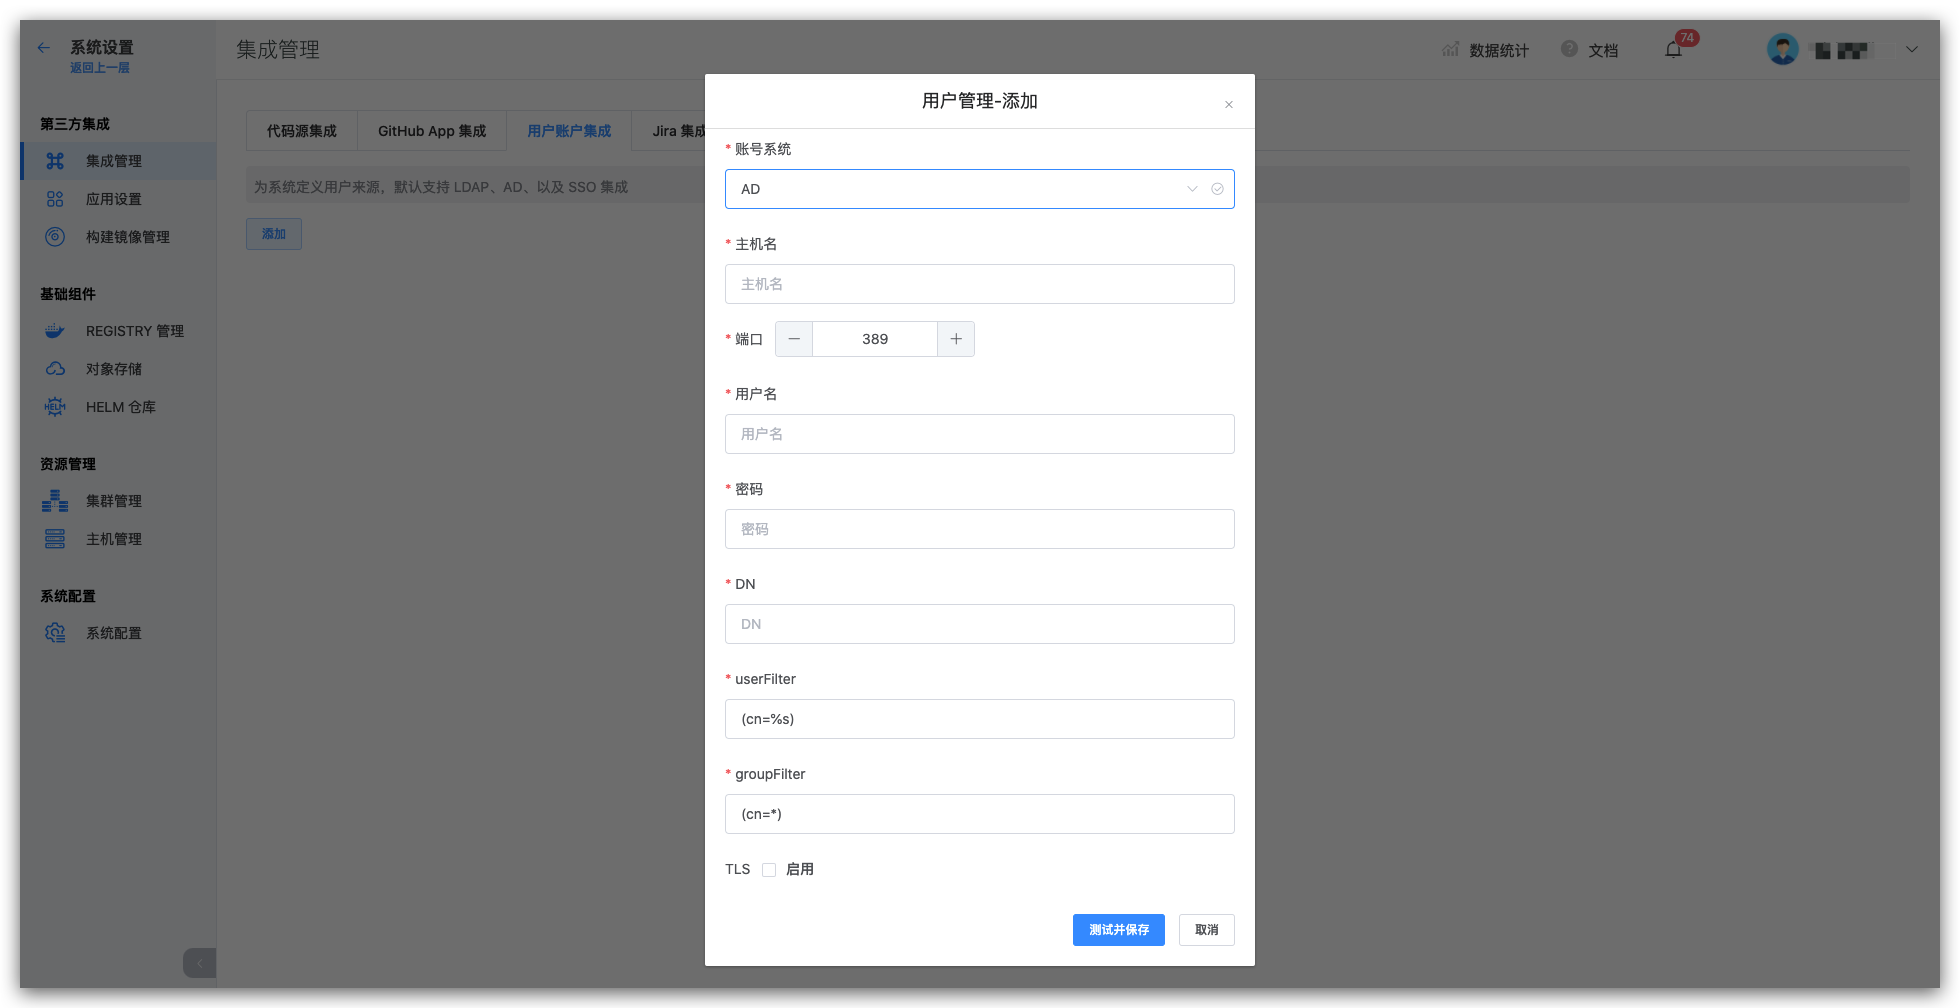
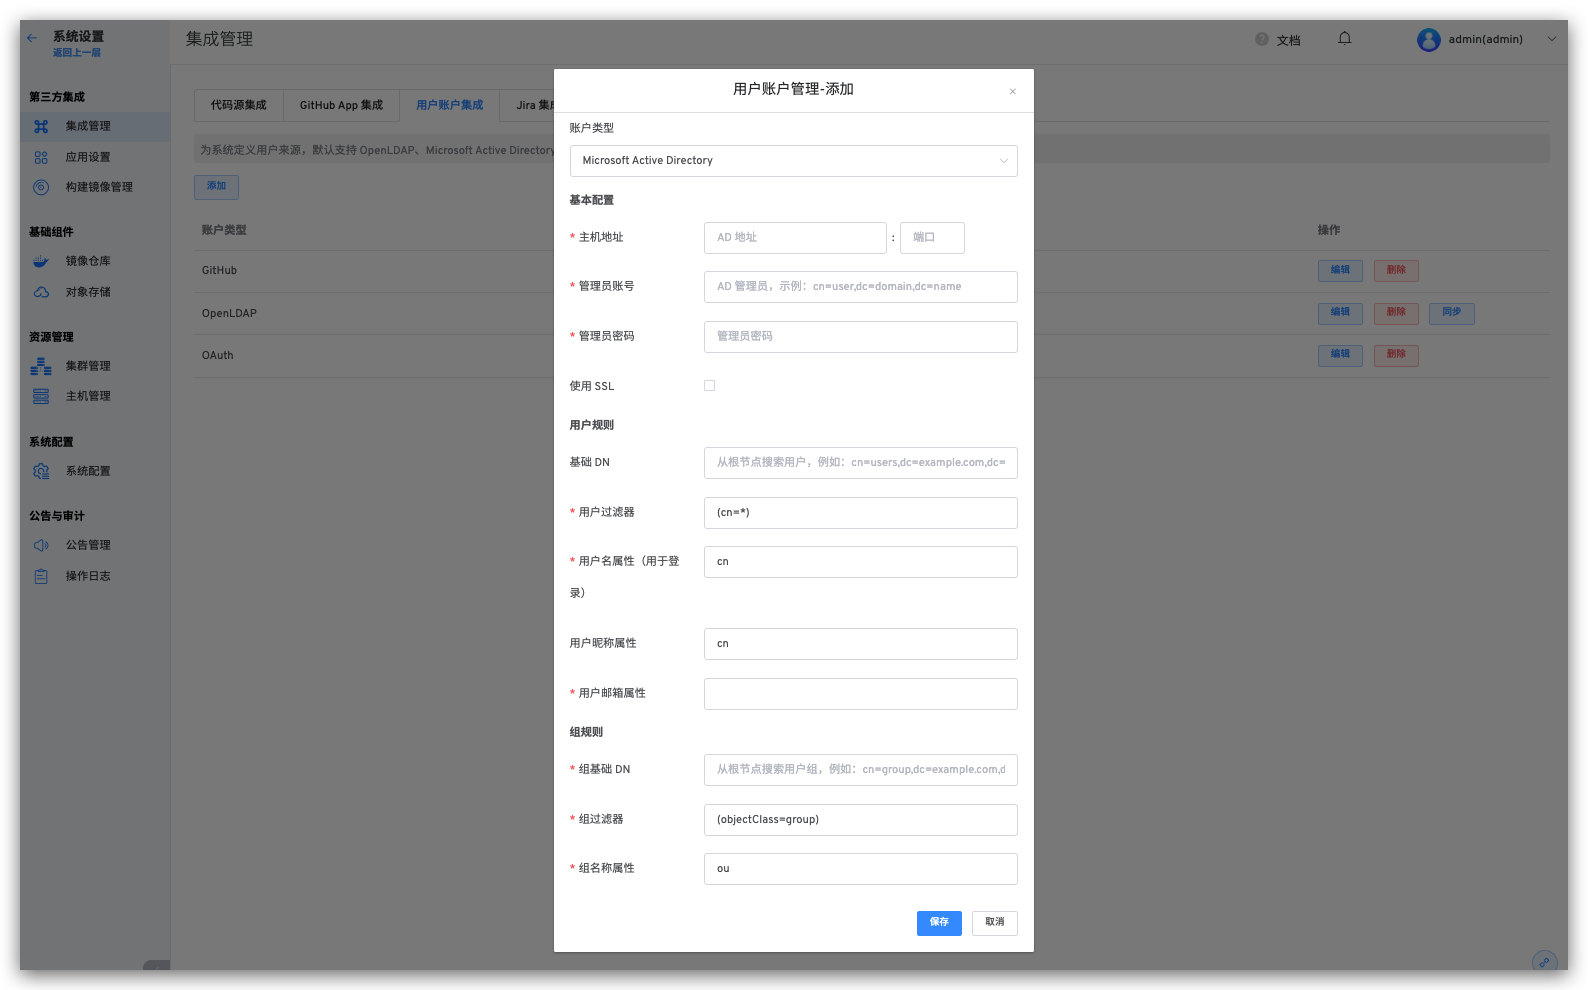
update user account doc

diff --git a/zh_cn/09.系统设置/02.account.md b/zh_cn/09.系统设置/02.account.md
@@ -16,37 +16,82 @@ LDAP（Lightweight Directory Access Protocol - 轻量目录访问协议）是一
 - Microsoft Active Directory
 - OpenLDAP
 
-### 在 Zadig 中集成 LDAP 目录
-
 ![ad](./_images/user_account_ad.png)
 
-- 管理员依次进入 `系统设置` -> `集成管理` -> `用户账户集成`，进入用户集成页面。
-- 点击添加按钮
-- 添加一个目录类型，选择以下类型：
+1. 管理员依次进入 `系统设置` -> `集成管理` -> `用户账户集成`，进入用户集成页面。
+2. 点击添加按钮，选择一个账户类型：
     - Microsoft Active Directory
     - OpenLDAP
-- 根据参数配置，输入需要配置的参数
-- 保存设置
+3. 根据参数配置，输入需要配置的参数
+4. 保存设置
 
-参数配置：
-| 参数名             | 描述                                                                                                                                                                                                                                                                                                                                                                                         |
-|--------------------|----------------------------------------------------------------------------------------------------------------------------------------------------------------------------------------------------------------------------------------------------------------------------------------------------------------------------------------------------------------------------------------------|
-| 目录类型           | 选择你将要连接的 LDAP 目录服务器类型。                                                                                                                                                                                                                                                                                                                                                       |
-| 主机名             | 目录服务器的主机名。例如：<br> ad.example.com<br> ldap.example.com<br> opends.example.com<br>                                                                                                                                                                                                                                                                                                |
-| 端口               | 你目录服务器正在监听的端口。例如： <br> 389<br> 10389 <br> 636（针对 SSL）                                                                                                                                                                                                                                                                                                                   |
-| 使用 SSL           | 如果目录服务器使用了 SSL（Secure Sockets Layer），则需要勾选这个选项。<br> 备注：如果希望使用这个选项，你需要配置 SSL 证书。                                                                                                                                                                                                                                                                 |
-| 用户名             | 注意区分该用户名和 Zadig 用户名，该用户名被用来连接目录服务器。例如：<br> cn=administrator,cn=users,dc=ad,dc=example,dc=com <br> cn=user,dc=domain,dc=name <br> user@domain.name                                                                                                                                                                                                             |
-| 密码               | 上述指定连接目录服务器用户的密码。                                                                                                                                                                                                                                                                                                                                                           |
-| 基础 DN（Base DN） | 根专有名称（DN）将会在你在目录服务器上运行查询的时候使用到。例如：<br> o=example,c=com <br> cn=users,dc=ad,dc=example,dc=com<br> 针对 Microsoft Active Directory，使用下面的格式来指定基本 DN：<br> dc=domain1,dc=local <br> 可以根据实际的需求配置来修改 domain1 和 local。<br> 与此同时 Microsoft Server 提供了一个名为 ldp.exe 工具，管路员可以使用该工具在 LDAP 服务器上进行查找和配置。 |
-| userFilter         | User 过滤器，关于 LDAP Filter 请参考 https://ldap.com/ldap-filters/                                                                                                                                                                                                                                                                                                                          |
-| groupFilter        | Group 过滤器，关于 LDAP Filter 请参考  https://ldap.com/ldap-filters/                                                                                                                                                                                                                                                                                                                        |                                                                             |
+**参数说明：**
+| 参数名             | 描述 |
+|-------------------|----------|
+| 账户类型           | 选择你将要连接的 LDAP 目录服务器类型。  |
+| 主机地址            | 目录服务器的主机名。例如：<br> ad.example.com<br> ldap.example.com<br> opends.example.com<br> |
+| 端口               | 你目录服务器正在监听的端口。例如： <br> 389<br> 10389 <br> 636（针对 SSL） |
+| 管理员账号            | 注意区分该用户名和 Zadig 用户名，该用户名被用来连接目录服务器。例如：<br> cn=administrator,cn=users,dc=ad,dc=example,dc=com <br> cn=user,dc=domain,dc=name <br> user@domain.name |
+| 管理员密码               | 上述指定连接目录服务器用户的密码。 |
+| 使用 SSL           | 如果目录服务器使用了 SSL（Secure Sockets Layer），则需要勾选这个选项。<br> 备注：如果希望使用这个选项，你需要配置 SSL 证书。  |
+|**用户规则**||
+| 基础 DN | 根专有名称（DN）将会在你在目录服务器上运行查询的时候使用到。例如：<br> o=example,c=com <br> cn=users,dc=ad,dc=example,dc=com<br> 针对 Microsoft Active Directory，使用下面的格式来指定基本 DN：<br> dc=domain1,dc=local <br> 可以根据实际的需求配置来修改 domain1 和 local。<br> 与此同时 Microsoft Server 提供了一个名为 ldp.exe 工具，管理员可以使用该工具在 LDAP 服务器上进行查找和配置。 |
+| 用户过滤器         | 用户过滤器，关于 LDAP Filter 请参考 https://ldap.com/ldap-filters/  |
+| 用户名属性（用于登录）|用于登录的用户名称属性|
+| 用户昵称属性|用户昵称属性，选填|
+| 用户邮箱属性|用户邮箱属性|
+|**组规则**||
+| 组基础 DN | 根专有名称（DN）将会在你在目录服务器上运行查询的时候使用到。 |
+| 组过滤器   | 组过滤器，关于 LDAP Filter 请参考  https://ldap.com/ldap-filters/  |  
+| 组名称属性 | 组名称属性 |
 
-## SSO
-Zadig 支持用户通过 SSO 账号授权进行登录：
+## OAuth 2.0
 
-![sso](./_images/user_account_sso.png)
+Zadig 支持用户通过 OAuth 2.0 账号授权进行登录。 点击`系统设置` -> `集成管理` -> `账户账号集成`-> 点击添加 -> 选择 `OAuth`。
 
-参数说明：
-- `Client Id`：用于认证的 Client ID
-- `Secret`：用于认证的 Secret
-- `Redirect`：SSO 登录跳转认证的 URL
+![oauth](./_images/user_account_oauth2.png)
+
+**参数说明：**
+| 参数名                 | 描述                            |
+|------------------------|---------------------------------|
+| Client ID              | OAuth Client ID                 |
+| Client Secret          | OAuth Client Secret             |
+| Authorization URL      | 获取 Authorization Code 的地址 |
+| Token URL              | 获取 Access Token 的地址        |
+| 用户信息 URL            | 获取用户信息的地址              |
+| 用户名属性（用于登录）     | 用于登录的用户名称属性          |
+| 用户昵称属性             | 用户昵称属性，选填              |
+| 用户邮箱属性             | 用户邮箱属性                    |
+
+
+## GitHub
+
+### 步骤 1：创建 GitHub OAuth 应用
+
+前往 [Github](https://github.com/settings/applications/new) 注册一个新的 GitHub OAuth application。
+
+在新建应用程序页面，你需要进行如下步骤：
+
+1. Application name：zadig，也可以填写可识别的任一名称。
+2. Homepage URL：http://[zadig.yours.com]
+3. Authorization CallBack URL： `http://[zadig.yours.com]/dex/callback`
+4. 点击创建
+
+### 步骤 2：获取 Client ID、Client Secret 信息
+
+应用创建成功后，GitHub 会返回应用的基本信息，点击 `Generate a new client secret` 生成 `Client Secret`。
+
+![github](./_images/github3.png)
+
+此时页面包括完整的 `Client ID` 、`Client Secret`。
+
+### 步骤 3：集成 GitHub OAuth
+
+点击`系统设置` -> `集成管理` -> `账户账号集成`-> 点击添加 -> 选择 `GitHub`。
+
+![GitHub](./_images/user_account_github.png)
+
+**参数说明：**
+- `Client ID`: 步骤 2 中获得的 Client ID。
+- `Client Secret`: 步骤2 中获得的 Client Secret。
+

diff --git a/zh_cn/14.版本发布历史/41.v1-7-0.md b/zh_cn/14.版本发布历史/41.v1-7-0.md
@@ -1,0 +1,144 @@
+---
+title: v1.7.0 Release Notes
+date: 2021-11-16 10:27:44
+permalink: /release-notes/v1.7.0/
+---
+
+2021 年 11 月 16 日，Zadig 正式发布 v1.7.0。
+
+## 功能列表
+- 支持用户管理
+- 支持项目权限管理
+- 支持外部系统常用链接管理
+- 托管项目工作流支持 webhook 触发服务更新
+
+## 版本升级过程
+
+::: danger 前提条件
+如果当前系统版本 < v1.6.0，请先升级到 v1.6.0，升级方式参考文档 [v1.6.0 升级方式](/release-notes/v1.6.0/#版本升级方式)。再按照以下方式升级到v1.7.0。**不支持跨版本升级**
+:::
+
+### 高可用数据库的升级流程
+#### 步骤 1：备份数据
+高可用数据库，通过云厂商配置做 Mongodb 全量备份。
+#### 步骤 2：使用脚本卸载 Zadig
+1. 从 GitHub/墙内下载卸载脚本: [Zadig 卸载脚本](https://github.com/koderover/zadig/releases/tag/v1.6.0)
+2. 设置需要卸载的命名空间并执行卸载脚本
+```bash
+export NAMESPACE=<Zadig 所在的 namespace>
+bash uninstall.sh
+```
+#### 步骤 3：安装 Zadig v1.7.0 
+1. 执行安装脚本
+2. 下载[数据同步工具](https://resources.koderover.com/dist/1.7.0-upgrade.yaml)，执行升级 Job。
+    1. 修改 YAML。
+        1. 最后一行脚本 <span v-pre>`value: {{ default "http" .Values.protocol }}://{{- include "zadig.endpoint" . }}`</span>修改为系统实际访问域名/IP
+        2. `mongodb://zadig-mongodb:27017` 修改为对应的连接串
+        3. `-d`下面一行的`zadig` 修改为对应的 dbname
+    2. 执行如下命令。
+    ```bash
+    kubectl apply -f 1.7.0-upgrade.yaml -n <Zadig 所在namespace>
+    ```
+3. 确保 job 执行成功
+
+#### 步骤 4：验证安装结果 
+1. 版本信息确认
+    1. 访问 <安装后的 Zadig 地址>/signin
+    2. 查看右下角 info 提示中的 Version 信息，Version 信息为 1.7.0
+2. 新版本正确性检查，推荐校验点
+    1. 管理员访问系统中任一正常使用的项目
+    2. 执行工作流，对指定环境的服务进行部署更新
+    3. 新建集成环境、删除集成环境、更新集成环境
+    4. 提交代码变更，确认配置了 Webhook 的工作流是否被按照预期触发
+
+#### 失败回滚流程
+1. 卸载 Zadig （方式[步骤 2](#步骤-2-使用脚本卸载-zadig)）
+2. 重新安装 Zadig v1.6.0
+> 注：在安装完成后先不要进入系统，等待数据恢复
+3. 回滚数据至备份版本
+```bash
+# 确保操作的机器上有 mongodb 客户端
+# 执行以下命令进行 port 转发
+kubectl port-forward svc/zadig-mongodb -n <Zadig 所在的namespace> 27090:27017
+# 对数据进行恢复
+mongorestore mongodb://localhost:27090 <备份数据文件/目录>
+```
+4. 执行回滚 Job
+    1. 下载[数据回滚工具](https://resources.koderover.com/dist/1.7.0-revert.yaml)
+    2. 修改 YAML 最后一行修改为系统实际访问域名/IP
+    3. 执行如下命令
+    ``` bash
+    kubectl apply -f 1.7.0-revert.yaml -n <Zadig 所在 namespace>
+    ```
+
+### 使用 Zadig 内置 mongodb的升级流程
+#### 步骤 1：备份数据
+由 Zadig 安装的 mongodb 的备份
+```bash
+# 确保操作的机器上有 mongodb 客户端
+# 寻找 zadig-mongodb 开头的 Pod 名称，执行以下命令进行 port 转发
+kubectl port-forward svc/zadig-mongodb -n <Zadig 所在的 namespace> 27090:27017
+# 对数据进行备份
+mongodump --out=<你想要的路径> --db=zadig mongodb://localhost:27090
+```
+#### 步骤 2：使用脚本卸载 Zadig
+1. 从 GitHub/墙内下载卸载脚本: [Zadig 卸载脚本](https://github.com/koderover/zadig/releases/tag/v1.6.0)
+2. 设置需要卸载的命名空间并执行卸载脚本
+``` bash
+export NAMESPACE=<Zadig 所在的 namespace>
+bash uninstall.sh
+```
+#### 步骤 3：安装 Zadig v1.7.0 
+1. 执行安装脚本
+2. 确保安装完成后 Pod 状况正常 （如果不正常，自行解决）
+3. 恢复数据至备份版本
+``` bash
+# 确保操作的机器上有 mongodb 客户端
+# 执行以下命令获取 mongodb 的 Pod 名称
+kubectl get pods -n <Zadig 所在的namespace>
+# 寻找 zadig-mongodb 开头的 Pod 名称, 执行以下命令进行 port 转发
+kubectl port-forward pod/<上一步中获取到的 Pod 名称> -n <Zadig 所在的 namespace> 27090:27017
+#如果使用 Zadig 安装的 mongodb,对数据进行恢复
+mongorestore mongodb://localhost:27090 <备份数据文件/目录>
+```
+4. 下载[数据同步工具](https://resources.koderover.com/dist/1.7.0-upgrade.yaml)，执行升级 Job。
+    1. 修改 YAML 最后一行脚本 <span v-pre>`value: {{ default "http" .Values.protocol }}://{{- include "zadig.endpoint" . }}`</span> 为系统实际访问域名/IP
+    2. 执行如下命令。
+    ``` bash
+    kubectl apply -f 1.7.0-upgrade.yaml -n <Zadig 所在 namespace>
+    ```
+5. 确保 Job 执行成功。
+
+#### 步骤 4：验证安装结果 
+1. 版本信息确认
+    1. 访问 <安装后的 Zadig 地址>/signin
+    2. 查看右下角 info 提示中的 Version 信息，Version 信息为 1.7.0
+2. 新版本正确性检查，推荐校验点
+    1. 管理员访问系统中任一正常使用的项目
+    2. 执行工作流，对指定环境的服务进行部署更新
+    3. 新建集成环境、删除集成环境、更新集成环境
+    4. 提交代码变更，确认配置了 Webhook 的工作流是否被按照预期触发
+
+
+#### 失败回滚流程
+1. 卸载 Zadig （方式[步骤 2](#步骤-2-使用脚本卸载-zadig-2)）
+2. 重新安装 Zadig v1.6.0
+> 注：在安装完成后先不要进入系统，等待数据恢复
+3. 回滚数据至备份版本
+```bash
+# 确保操作的机器上有 mongodb 客户端
+# 执行以下命令进行 port 转发
+kubectl port-forward svc/zadig-mongodb -n <zadig所在的namespace> 27090:27017
+# 对数据进行恢复
+mongorestore mongodb://localhost:27090 <备份数据文件/目录>
+```
+4. 执行回滚 Job
+    1. 下载[数据回滚工具](https://resources.koderover.com/dist/1.7.0-revert.yaml)
+    2. 根据自己 Zadig 的安装方式，修改 YAML 内容:
+        1. 最后一行修改为系统实际访问域名/IP
+        2. `mongodb://zadig-mongodb:27017`修改为对应的连接串
+        3. `-d`下面一行的`zadig`修改为对应的 dbname
+    3. 执行如下命令
+    ``` bash
+    kubectl apply -f 1.7.0-revert.yaml -n <Zadig 所在 namespace>
+    ```

diff --git a/zh_cn/02.安装与配置/01.all-in-one.md b/zh_cn/02.安装与配置/01.all-in-one.md
@@ -70,6 +70,8 @@ export PORT=<30000~32767 任一端口>
 | MONGO_URI                  |                            |否  | Zadig 业务数据存储，若不配置，使用安装脚本中内置的单节点 MongoDB                           |
 | MONGO_DB                   |  zadig                     |否  | 数据库名称 |
 | ENCRYPTION_KEY                     |                            |否  | 用于数据加密解密，由安装过程生成 ENCRYPTION_KEY，第一次安装后请保存 ENCRYPTION_KEY，重装系统时需设置 ENCRYPTION_KEY，才能保证之前的数据可以被正确解密|
+| EMAIL                      |  admin@example.com | 否 |初始用户邮箱 |
+| PASSWORD                   |  zadig             | 否 |初始用户密码 |
 
 ## 步骤 3：开始安装
 执行安装脚本：

diff --git a/zh_cn/02.安装与配置/02.install-on-k8s.md b/zh_cn/02.安装与配置/02.install-on-k8s.md
@@ -69,6 +69,8 @@ export PORT=< 30000 - 32767 任一端口>
 | MONGO_URI                  |                           | 否   | Zadig 业务数据存储，若不配置，使用安装脚本中内置的单节点 MongoDB                           |
 | MONGO_DB                   |  zadig                     |否  | 数据库名称 |
 | ENCRYPTION_KEY                     |                          | 否    | 用于数据加密解密，由安装过程生成 ENCRYPTION_KEY，第一次安装后请保存 ENCRYPTION_KEY，重装系统时需设置 ENCRYPTION_KEY，才能保证之前的数据可以被正确解密|
+| EMAIL                      |  admin@example.com | 否 |初始用户邮箱 |
+| PASSWORD                   |  zadig             | 否 |初始用户密码 |
 
 
 ## 步骤 5：开始安装

diff --git a/zh_cn/14.版本发布历史/00.Zadig Roadmap.md b/zh_cn/14.版本发布历史/00.Zadig Roadmap.md
@@ -10,7 +10,7 @@ permalink: /pages/d6e5b1/
 - [x] 支持云主机/物理机服务部署类型项目
 - [x] 支持 Kubernetes 基础设施类型的托管项目
 - [ ] 添加 Zadig 项目运行情况数据统计
-- [ ] 支持项目级别的 RBAC 权限管理
+- [x] 支持项目级别的 RBAC 权限管理
 ## 集成环境
 - [x] 支持服务管理、服务调试、镜像替换、日志查看
 - [x] 支持 Kubernetes YAML 部署服务
